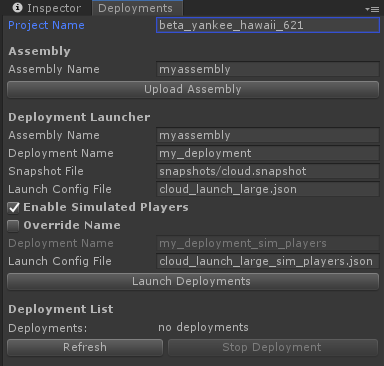
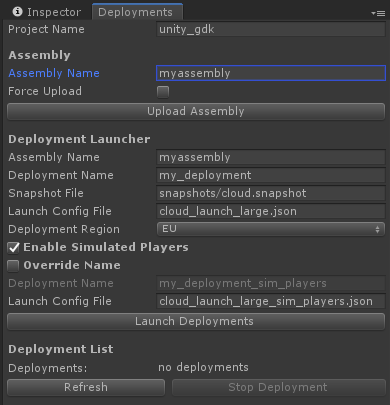
update deployment window picture + upload-launch doc

Changed region(s): [[0.0, 0.1202, 1.0, 0.8115], [0.0, 0.0, 1.0, 0.0902], [0.0, 0.8415, 0.8438, 0.9918]]

diff --git a/docs/content/get-started/upload-launch.md b/docs/content/get-started/upload-launch.md
@@ -9,7 +9,7 @@ This has 2 steps:
 
 ### Set your SpatialOS project name
 
-When you signed up for SpatialOS, your account was automatically associated with an organisation and a project, both of which have the same generated name. 
+When you signed up for SpatialOS, your account was automatically associated with an organisation and a project, both of which have the same generated name.
 
 1. Find this name by going to the [Console](https://console.improbable.io/projects). <br/>
 The name should look something like **beta_randomword_anotherword_randomnumber**.
@@ -20,7 +20,7 @@ In the example below, it's **beta_yankee_hawaii_621**.
 _Example autogenerated SpatialOS project name_
 <br/>
 <br/>
-1. Using a text editor of your choice, open `gdk-for-unity-fps-starter-project/spatialos.json` and replace the `unity_gdk` project name with the project name you were assigned in the Console. This tells SpatialOS which SpatialOS project you intend to upload to. 
+1. Using a text editor of your choice, open `gdk-for-unity-fps-starter-project/spatialos.json` and replace the `unity_gdk` project name with the project name you were assigned in the Console. This tells SpatialOS which SpatialOS project you intend to upload to.
 <br/><br/>
 Your `spatialos.json` should look like this:
 
@@ -57,10 +57,10 @@ To do this:
 * First, in the **Assembly** section of the Deployments window, enter the **Assembly Name** field. The assembly name is a string you choose made up of alphanumeric characters, `_`, `.`, and `-`; for example `my_assembly`. (As shown in the example below.)
 * Now select **Upload Assembly** to start the upload.
 
+> **TIP:** If you want to overwrite an existing assembly, ensure the `Force Upload` option is enabled.
+
 ![]({{assetRoot}}assets/deployment-window.png)
 <br/> _Example Deployments window showing the Assembly section completed_
-
-<br/>
 
 **It’s finished uploading when:** You see an upload report printed in your Unity Console, for example:
 
@@ -70,15 +70,17 @@ Uploaded assembly my_assembly to project unity_gdk successfully.
 
 > **TIP:** Depending on your network speed, the upload may take a little while (1-10 minutes) to complete.
 
+<br/>
 
 #### 3. Launch a cloud deployment
 
 The next step is to [start a cloud deployment](https://docs.improbable.io/reference/latest/shared/deploy/deploy-cloud#5-deploy-the-project) using the assembly that you just uploaded. When you launch a cloud deployment you have to provide four parameters:
 
-* **Assembly Name** - this identifies the worker assemblies to use. 
+* **Assembly Name** - this identifies the worker assemblies to use.
 * **Deployment Name** - this labels your deployment in the SpatialOS Console.
 * **Snapshot File** - this specifies which snapshot file the deployment uses. A snapshot declares the state of the world as the deployment starts.
 * **Launch Config File** - this is the deployment's launch configuration `.json` file which declares the world and load balancing configuration.
+* **Deployment Region** - the region that your deployment will be started in, set to `US` by default.
 
 <br/>
 To launch your cloud deployment:
@@ -92,6 +94,7 @@ To launch your cloud deployment:
 |**Deployment Name**| A name of your choice - for example; `shootyshooty`. <br/>(The name needs to conform to the following regex: `[a-z0-9_]{2,32}`.)|
 |**Snapshot File**|`snapshots/cloud.snapshot`<br/>Note that this is a relative path from the root of your SpatialOS project.|
 |**Launch Config File** | `cloud_launch_large.json`<br/>Note that this is a relative path from the root of your SpatialOS project.|
+|**Deployment Region**|This can be set to `US` (default) or `EU`. Select the region closest to you for lower latencies when connecting clients. Note that the simulated players deployment will also be deployed to the same region.|
 |**Enable Simulated Players**| Ensure this is checked.|
 |**Override Name**| Leave this unchecked.<br/>This allows you to change the name of the simulated players deployment.|
 |**Deployment Name**<br/> (The second Deployment Name listed)| Do not edit this field.|
@@ -106,7 +109,9 @@ To launch your cloud deployment:
 **Note:** You will see that there are two Deployment Names and two Launch Config Files listed in the Deployment window; the first listed is your FPS Starter Project, the second is a deployment for simulated players. You will find out more about simulated players in later steps.
 <br/>
 
-**It's finished when:** You see two messages printed in your Unity Console indicating both deployments have been started:
+**It's finished when:** the Console pages for both deployments have opened up in your browser.
+
+You should also see two messages printed in your Unity Console indicating both deployments have been started:
 
 ```
 Successfully created the main deployment.
@@ -118,7 +123,6 @@ Successfully created the simulated player deployment.
 <br/>
 ## Well done getting set up!
 
-<br/>
 It’s time to play your game.
 
 #### Next: [Get playing!]({{urlRoot}}/content/get-started/get-playing.md)
